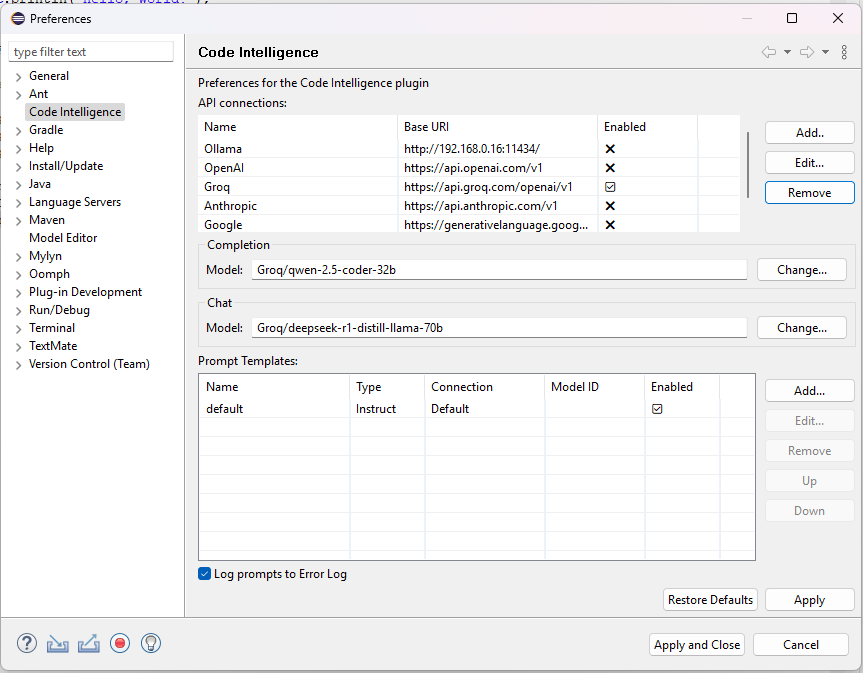
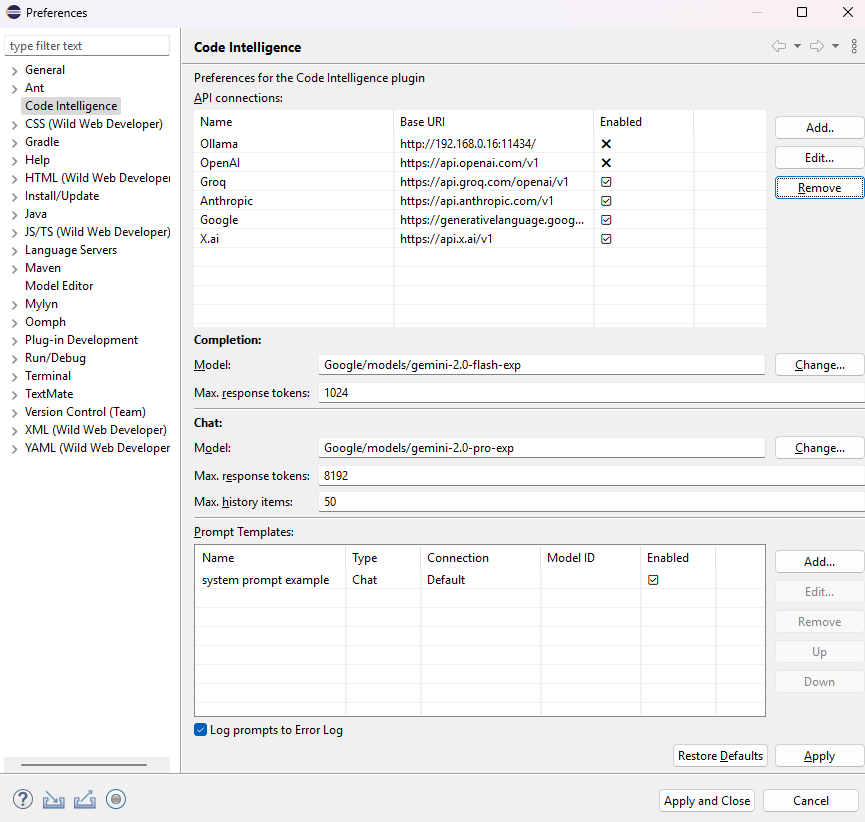
Forgot to add ModelUtil.java. Also updated images in README.md

diff --git a/com.chabicht.code-intelligence/src/com/chabicht/code_intelligence/util/ModelUtil.java b/com.chabicht.code-intelligence/src/com/chabicht/code_intelligence/util/ModelUtil.java
@@ -1,0 +1,25 @@
+package com.chabicht.code_intelligence.util;
+
+import java.util.Optional;
+
+import org.apache.commons.lang3.StringUtils;
+
+import com.chabicht.code_intelligence.Tuple;
+
+public class ModelUtil {
+	private ModelUtil() {
+		// No instances.
+	}
+
+	public static Optional<Tuple<String, String>> getProviderModelTuple(String modelId) {
+		Optional<Tuple<String, String>> res = Optional.empty();
+
+		modelId = StringUtils.stripToEmpty(modelId);
+		int firstSlashIndex = modelId.indexOf('/'); 
+		if(firstSlashIndex>=0) {
+			res = Optional.of(new Tuple<>(modelId.substring(0, firstSlashIndex), modelId.substring(firstSlashIndex+1)));
+		}
+		
+		return res;
+	}
+}

diff --git a/README.md b/README.md
@@ -51,7 +51,7 @@ Open the preferences: *Window* -> *Preferences* -> *Code Intelligence*.
 
 ![Screenshot: Plugin configuration page](images/preferences.png)
 
-Here you can add connections to different API providers and select the model you want to use for *code completion* and *chat* requests.
+Here you can add connections to different API providers and configure the model you want to use for *code completion* and *chat* requests.
 
 ## Ollama connection settings
 
